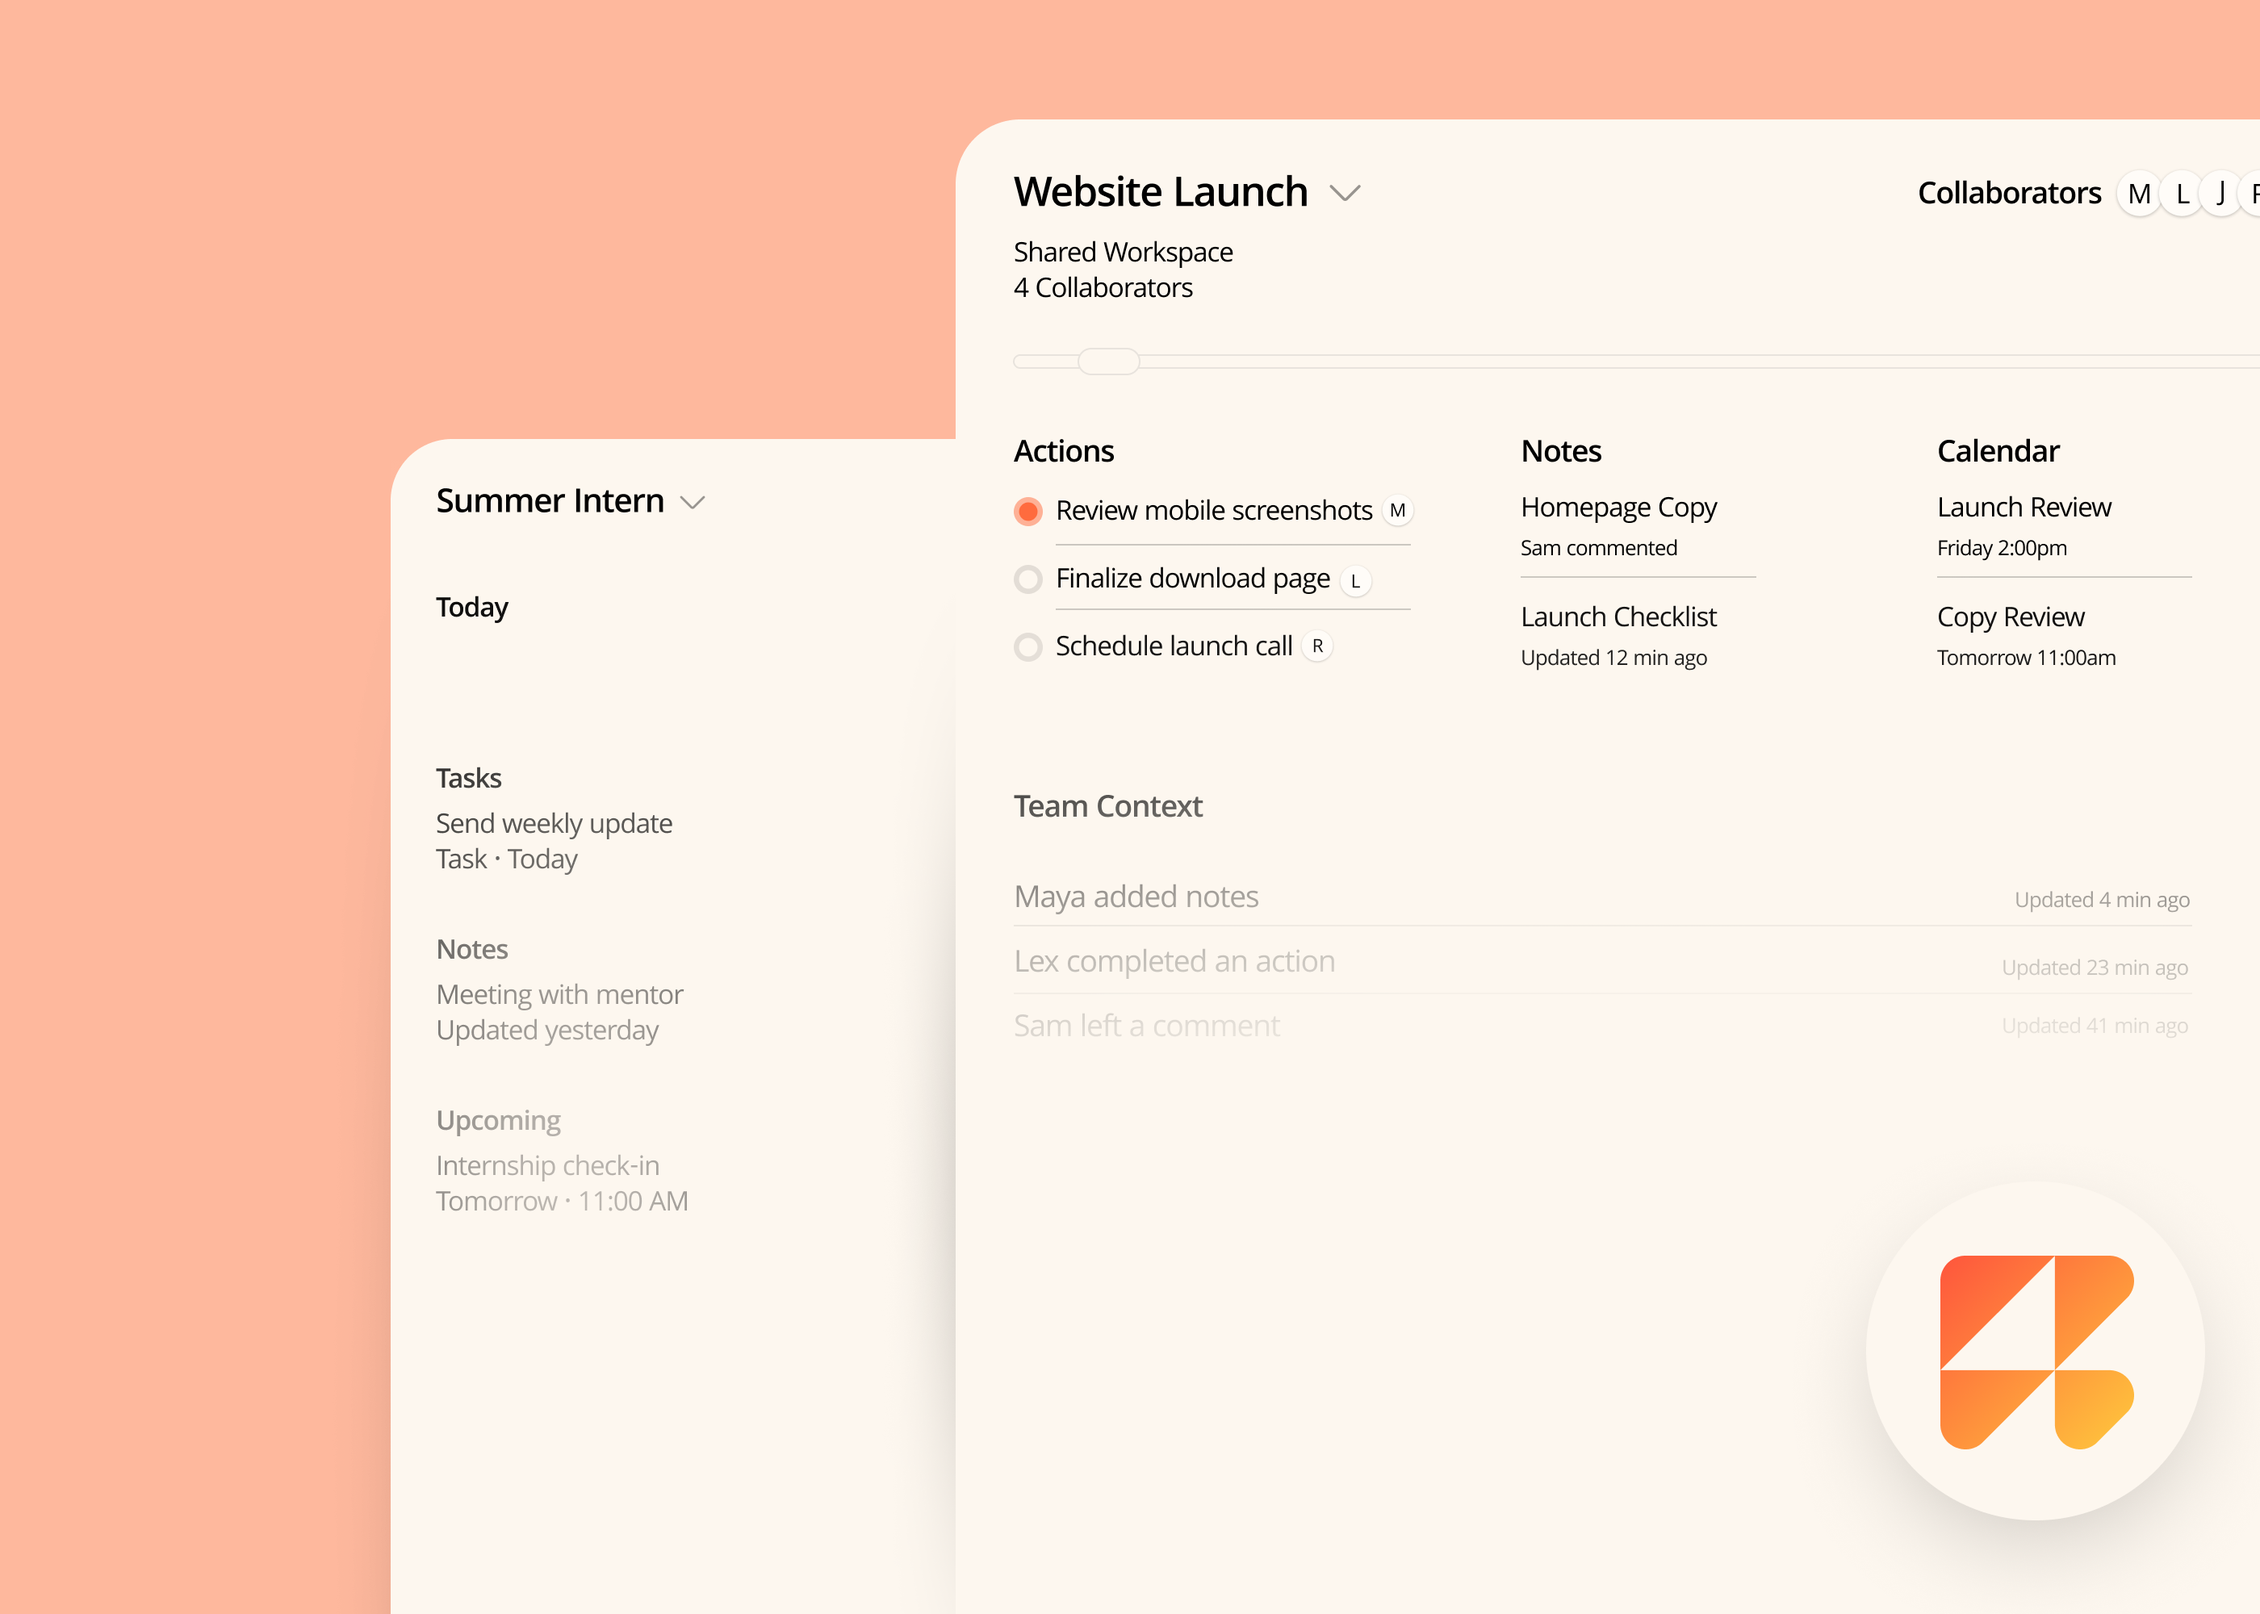
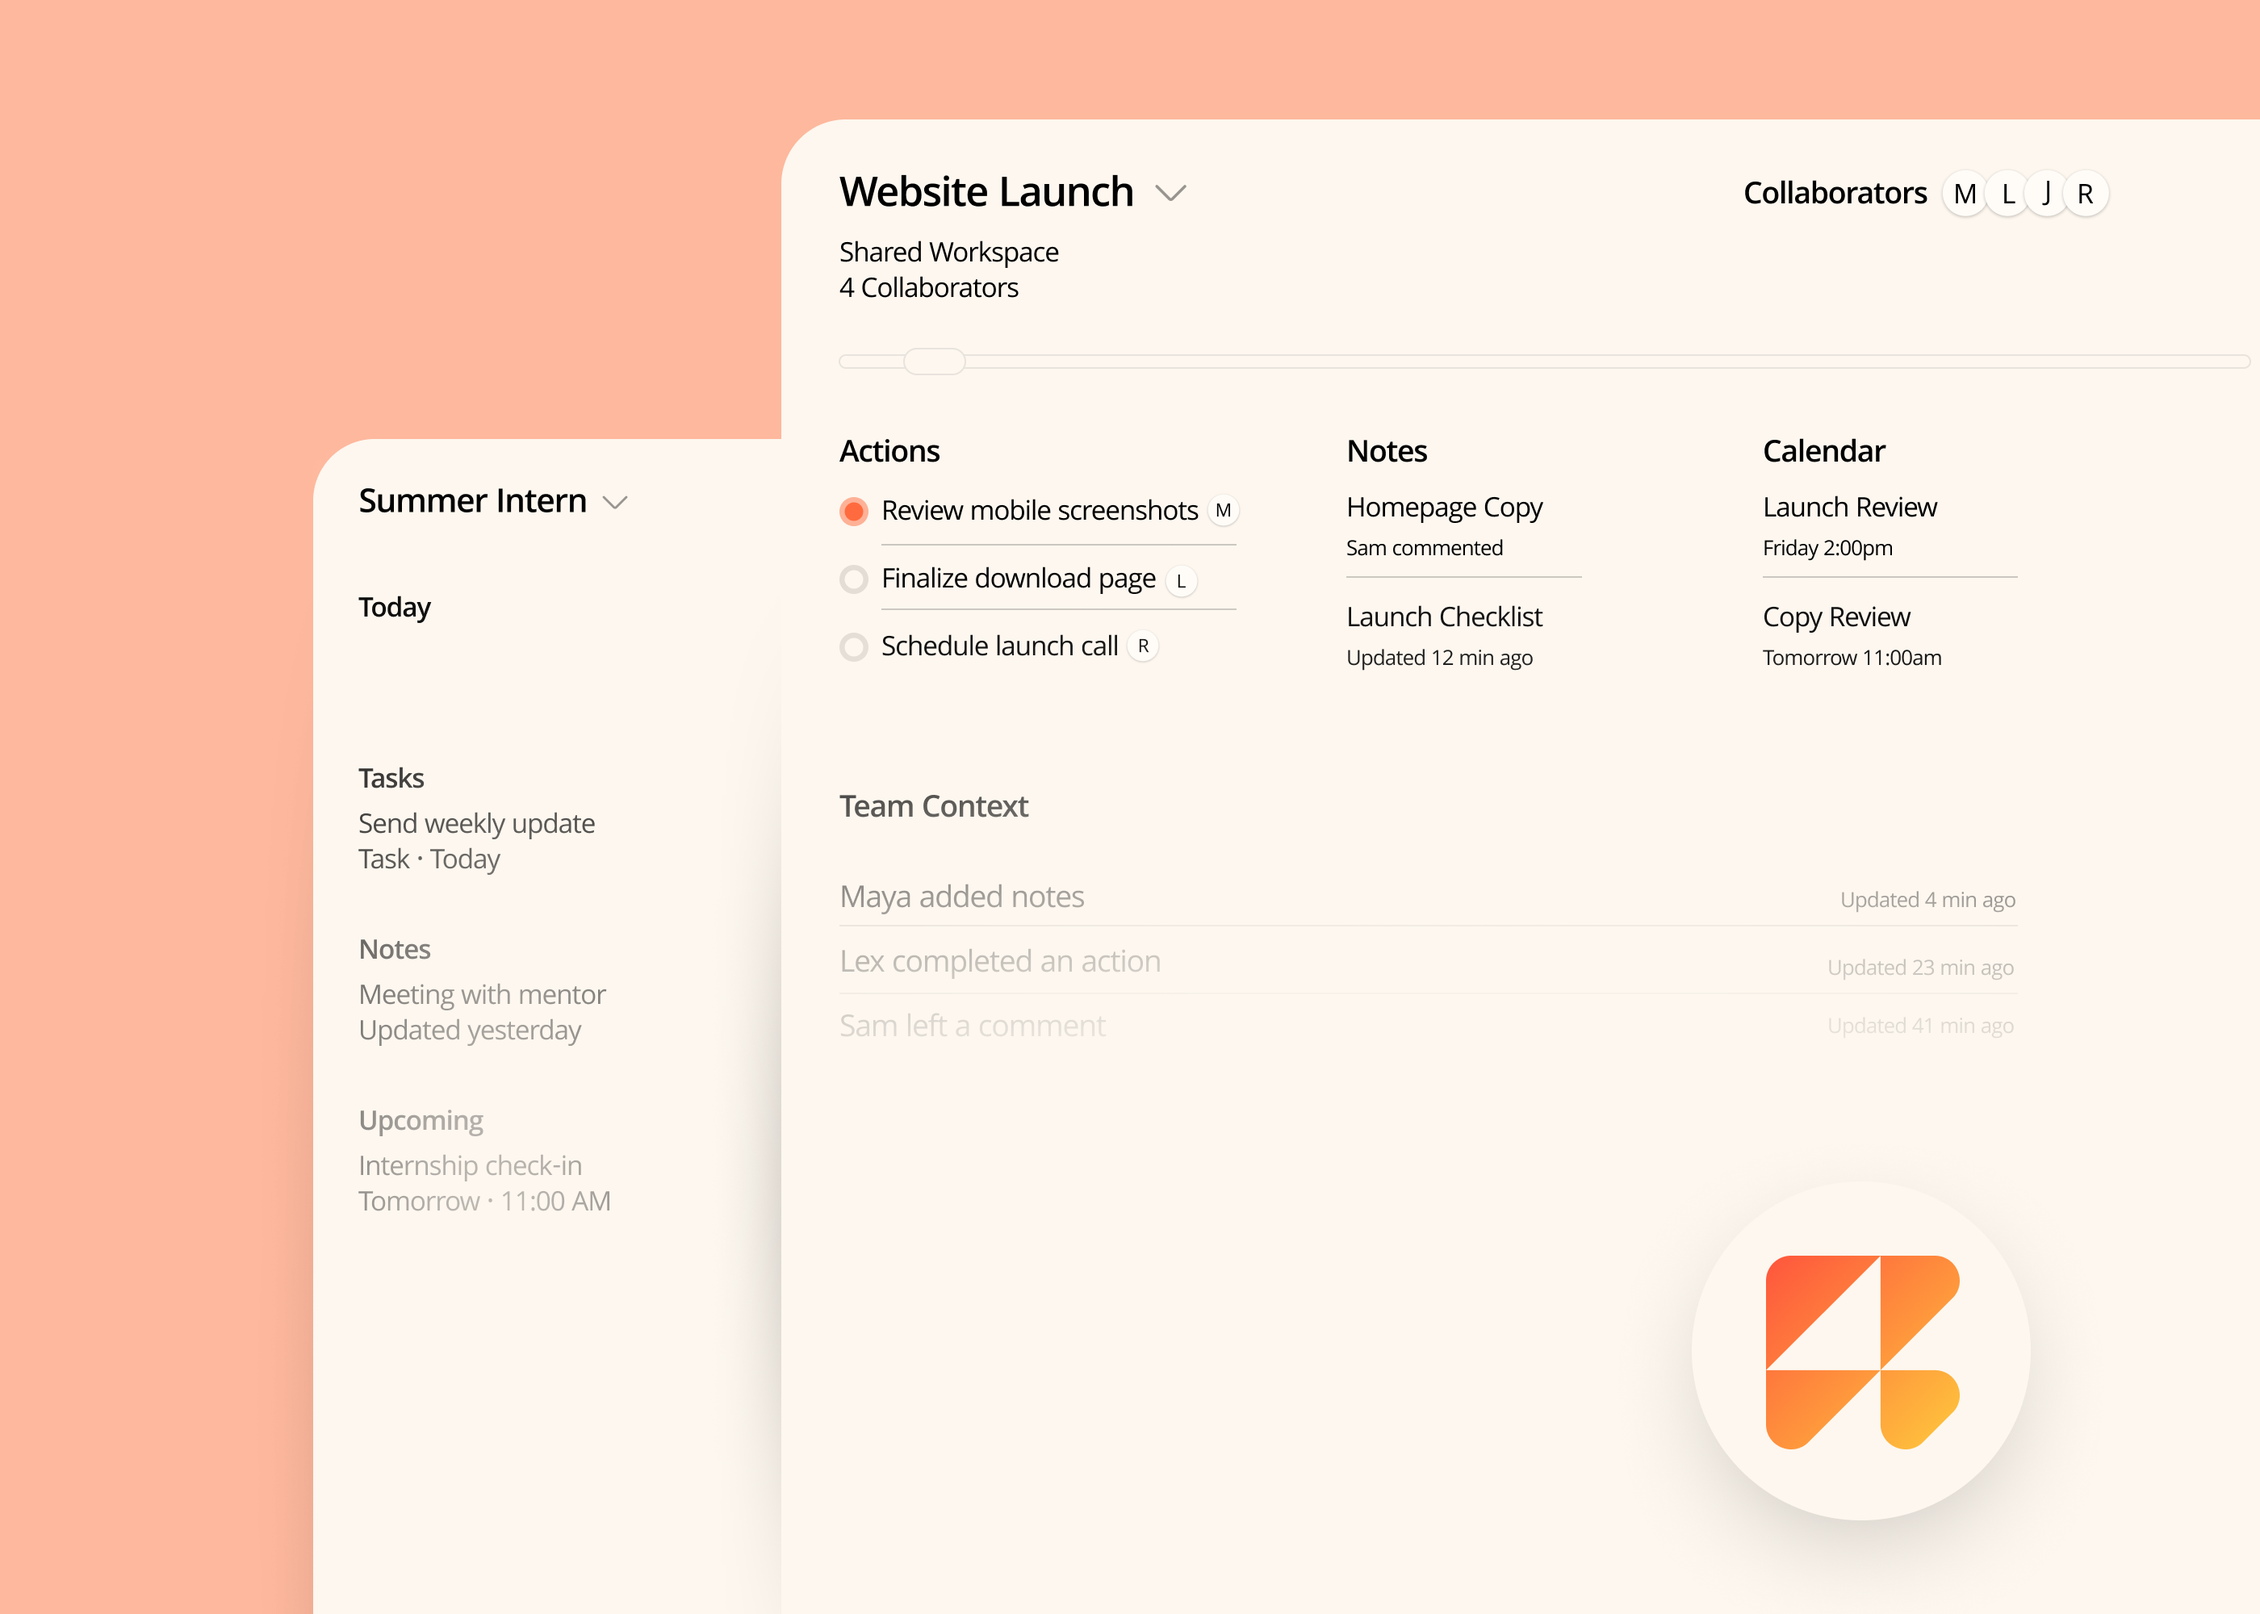
planning bento

diff --git a/src/components/sections/HomepageCommandGridSection.tsx b/src/components/sections/HomepageCommandGridSection.tsx
@@ -10,21 +10,8 @@ const desktopCommandFrames = [
 
 const integrationsDesktopSrc = '/assets/bentobox2/2ndtopbentoboxdesktop_4x.webp'
 const integrationsMobileSrc = '/assets/bentobox2/2ndtopbentoboxmobtab_4x.webp'
-
-function AbstractStage({
-  tone = 'neutral',
-}: {
-  tone?: 'neutral' | 'warm' | 'cool'
-}) {
-  const toneClass =
-    tone === 'warm'
-      ? 'bg-[linear-gradient(180deg,rgba(255,244,238,0.96)_0%,rgba(246,239,229,0.96)_100%)]'
-      : tone === 'cool'
-        ? 'bg-[linear-gradient(180deg,rgba(241,244,246,0.96)_0%,rgba(230,233,236,0.96)_100%)]'
-        : 'bg-[linear-gradient(180deg,rgba(247,242,234,0.96)_0%,rgba(238,234,228,0.96)_100%)]'
-
-  return <div className={`h-full w-full ${toneClass}`} />
-}
+const commandActionsDesktopSrc = '/assets/bentobox2/topbentoboxdesktop_4x.webp'
+const commandActionsMobileSrc = '/assets/bentobox2/topbentoboxmobtab_4x.webp.webp'
 
 function DesktopCommandBentoMockup() {
   const frameIndexRef = useRef(0)
@@ -125,6 +112,29 @@ function IntegrationsMockup() {
   )
 }
 
+function CommandActionsMockup() {
+  useEffect(() => {
+    ;[commandActionsDesktopSrc, commandActionsMobileSrc].forEach((src) => {
+      const img = new Image()
+      img.src = src
+    })
+  }, [])
+
+  return (
+    <div className="relative isolate aspect-[5/3] w-full overflow-hidden rounded-b-[20px] rounded-t-none bg-[linear-gradient(180deg,var(--ledger-background-muted)_0%,rgba(255,255,255,0.52)_100%)] sm:rounded-b-[24px] lg:aspect-[63/50] lg:rounded-b-[28px]">
+      <picture className="absolute inset-0 block overflow-hidden rounded-[inherit]">
+        <source media="(min-width: 1024px)" srcSet={commandActionsDesktopSrc} />
+        <img
+          src={commandActionsMobileSrc}
+          alt=""
+          aria-hidden="true"
+          className="h-full w-full rounded-[inherit] object-cover object-center"
+        />
+      </picture>
+    </div>
+  )
+}
+
 const wideCardShellHeightClass = 'min-h-[360px] sm:min-h-[420px] md:min-h-[520px]'
 
 function WideCommandCard() {
@@ -196,9 +206,9 @@ export function HomepageCommandGridSection() {
             <div className="p-4 sm:p-5">
               <div className="flex items-start justify-between gap-4">
                 <div className="min-w-0 flex-1">
-                  <p className="text-[13px] font-medium tracking-[-0.01em] text-ledger-text-muted">Command actions</p>
+                  <p className="text-[13px] font-medium tracking-[-0.01em] text-ledger-text-muted">Planning</p>
                   <h3 className="mt-3 max-w-[30ch] text-[clamp(1.1rem,1.25vw,1.3rem)] font-semibold leading-[1.04] tracking-[-0.04em] text-ledger-text xl:whitespace-nowrap">
-                    Act on anything from one place.
+                    Plan across notes, events, and projects.
                   </h3>
                 </div>
                 <div className="mt-0.5 inline-flex h-8 w-8 shrink-0 items-center justify-center rounded-full bg-ledger-accent text-white transition-colors duration-200 hover:bg-ledger-accent-hover">
@@ -207,9 +217,7 @@ export function HomepageCommandGridSection() {
               </div>
             </div>
             <div className="border-t border-(--ledger-border-subtle) p-0">
-              <div className="aspect-[5/3] w-full overflow-hidden rounded-b-[20px] sm:rounded-b-[24px] lg:aspect-[63/50] lg:rounded-b-[28px]">
-                <AbstractStage tone="warm" />
-              </div>
+              <CommandActionsMockup />
             </div>
           </article>
 

diff --git a/src/styles/global.css b/src/styles/global.css
@@ -108,8 +108,13 @@ body {
 }
 
 ::selection {
-  background: var(--ledger-accent);
-  color: white;
+  background: rgba(255, 122, 89, 0.28);
+  color: var(--ledger-text);
+}
+
+::-moz-selection {
+  background: rgba(255, 122, 89, 0.28);
+  color: var(--ledger-text);
 }
 
 a {
